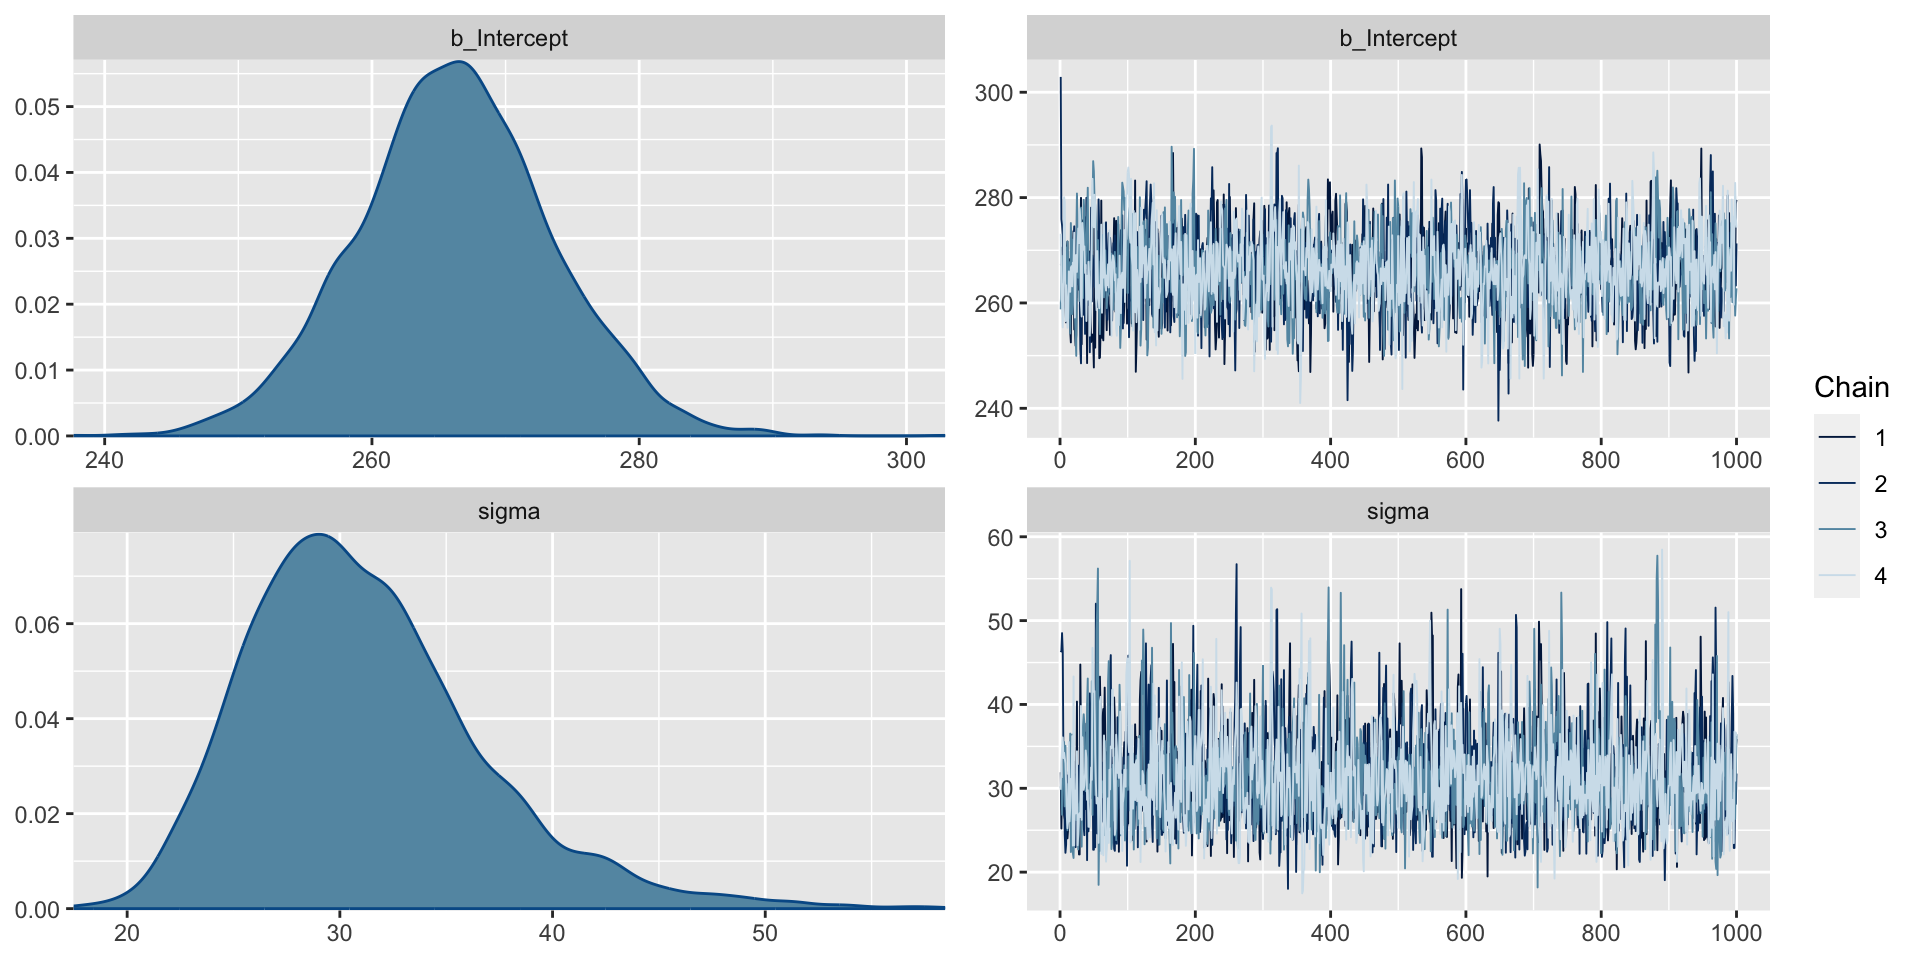
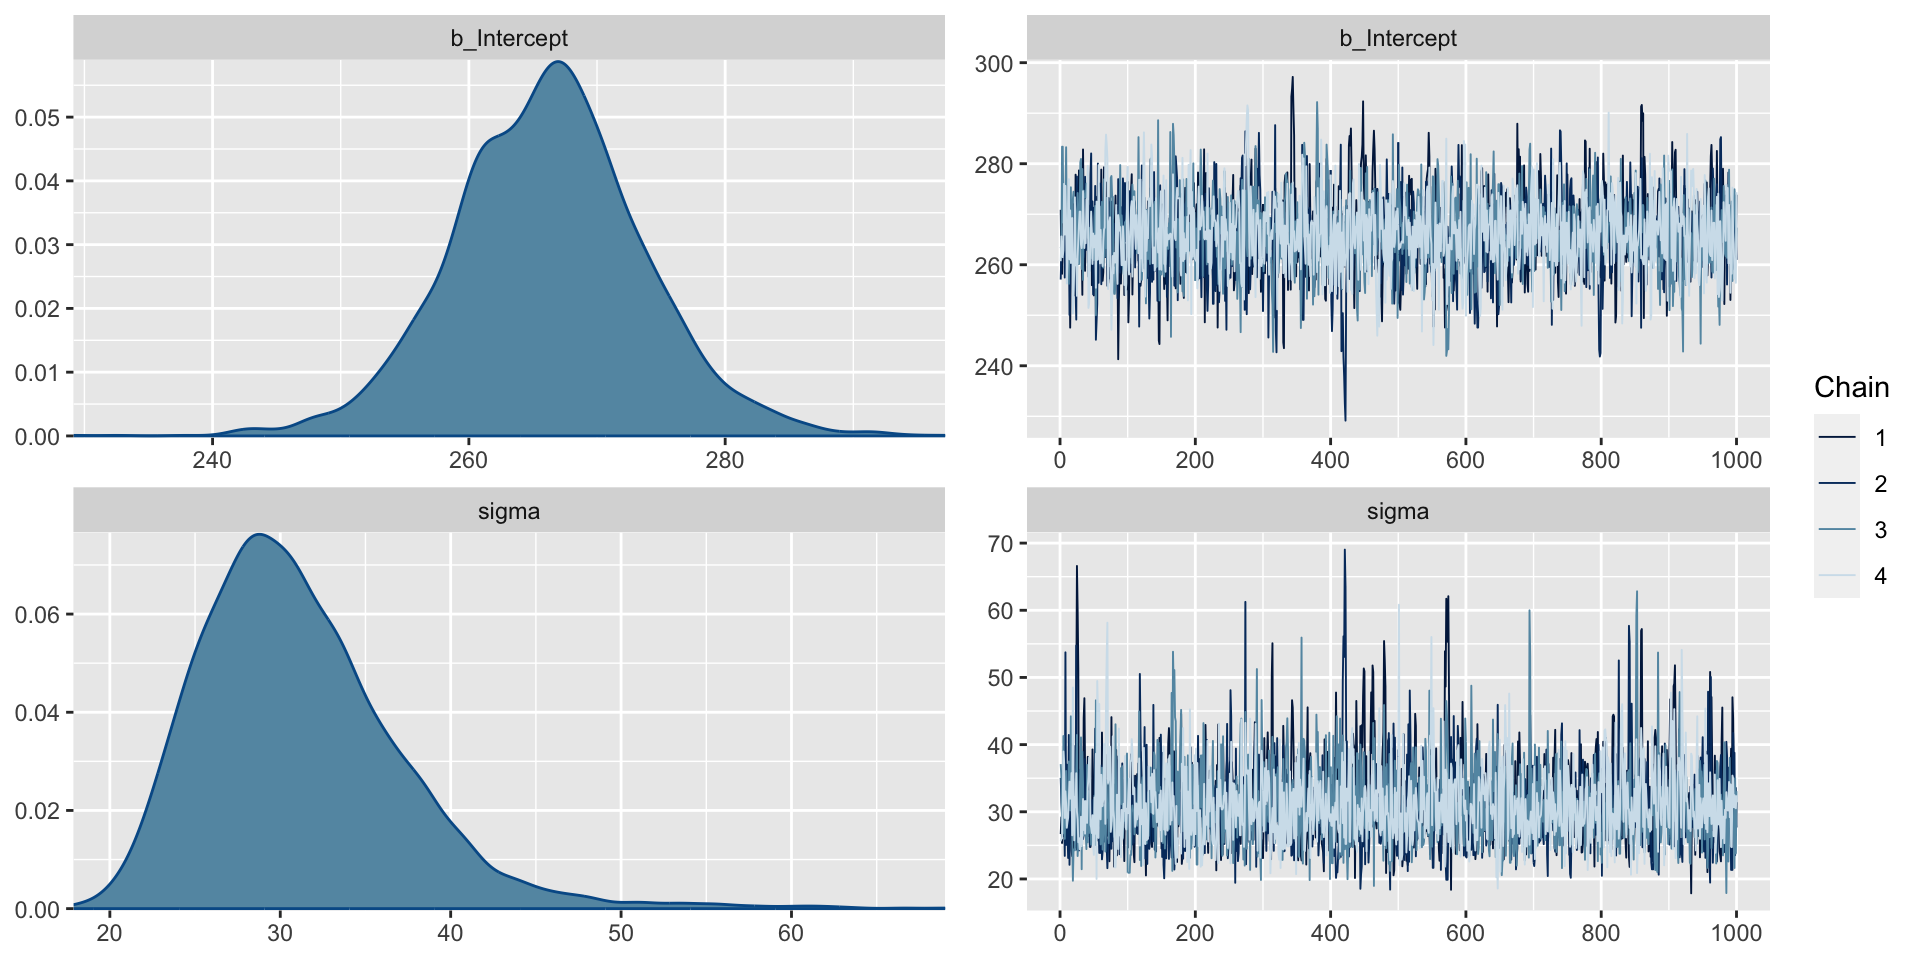
adding diagnostics to day 3 lecture 2

diff --git a/day-3-posterior/2-lec-posterior-analysis/2-lec-posterior-analysis.html b/day-3-posterior/2-lec-posterior-analysis/2-lec-posterior-analysis.html
@@ -448,6 +448,16 @@
 <img data-src="2-lec-posterior-analysis_files/figure-revealjs/unnamed-chunk-3-1.png" width="960" class="r-stretch"></section>
 <section id="code-to-fit-model" class="slide level2">
 <h2>Code to Fit Model</h2>
+<pre><code>fit &lt;- brm(data = baseline, family = gaussian(),
+           Reaction ~ 1, #only estimating a mean (Intercept) and variance
+           prior = c(
+            prior(normal(300,50), class = Intercept), 
+              # prior for mu has mean 300 and sd 50
+            prior(cauchy(0,40), class = sigma)
+              # prior for sigma is half of a mean 0, scale 40 Cauchy
+                )
+)
+</code></pre>
 </section>
 <section id="checking-the-output" class="slide level2">
 <h2>Checking the Output</h2>
@@ -457,7 +467,7 @@
 <div class="tab-content">
 <div id="tabset-2-1">
 <div class="cell">
-<div class="sourceCode cell-code" id="cb2"><pre class="sourceCode numberSource r number-lines code-with-copy"><code class="sourceCode r"><span id="cb2-1"><a href="#cb2-1"></a><span class="fu">plot</span>(fit) <span class="co"># show posteriors and trace plots</span></span></code><button title="Copy to Clipboard" class="code-copy-button"><i class="bi"></i></button></pre></div>
+<div class="sourceCode cell-code" id="cb3"><pre class="sourceCode numberSource r number-lines code-with-copy"><code class="sourceCode r"><span id="cb3-1"><a href="#cb3-1"></a><span class="fu">plot</span>(fit) <span class="co"># show posteriors and trace plots</span></span></code><button title="Copy to Clipboard" class="code-copy-button"><i class="bi"></i></button></pre></div>
 </div>
 </div>
 <div id="tabset-2-2">
@@ -470,10 +480,35 @@
 </div>
 </div>
 </section>
-<section id="checking-the-output-1" class="slide level2">
-<h2>Checking the Output</h2>
-<p>We also can check the <span class="math inline">\(\hat{R}\)</span> values.</p>
+<section id="interpreting-trace-plots" class="slide level2">
+<h2>Interpreting Trace Plots</h2>
+<p>A trace plot depicts the MCMC samples by MCMC iteration number. If your MCMC algorithm has converged, we expect to see trace plots that reflect white noise around the target value. Indeed, that appears to be the case here.</p>
+</section>
+<section id="bad-trace-plots" class="slide level2">
+<h2>Bad Trace Plots</h2>
+<div class="columns">
+<div class="column" style="width:60%;">
+<div class="quarto-figure quarto-figure-center">
+<figure>
+<p><img data-src="bad-trace-1.png"></p>
+<figcaption>Fig 6.12 in Bayes Rules</figcaption>
+</figure>
+</div>
+</div><div class="column" style="width:40%;">
+<p>Chain A has not yet converged to the right value (see black line in density plot), while Chain B is getting stuck and moving slowly around the sample space. In these cases, think carefully about your model and make sure it’s appropriate, and if so, try sampling a larger number of iterations.</p>
+</div>
+</div>
+</section>
+<section id="comparing-sampled-values-across-chains" class="slide level2">
+<h2>Comparing Sampled Values Across Chains</h2>
+<p>We also can check the <span class="math inline">\(\hat{R}\)</span> values. These compare the sampled values across chains (we hope all the chains are giving similar results) by taking the square root of the ratio of the variability in the parameter of interest across all chains combined to the typical variability within a given chain. When <span class="math inline">\(\hat{R} \approx 1\)</span>, we have stability across the chains. While there is no universal rule, often <span class="math inline">\(\hat{R}&gt;1.05\)</span> can be a cause for concern.</p>
+</section>
+<section id="checking-hatr" class="slide level2">
+<h2>Checking <span class="math inline">\(\hat{R}\)</span></h2>
 <div class="cell">
+<div class="sourceCode cell-code" id="cb4"><pre class="sourceCode numberSource markdown number-lines code-with-copy"><code class="sourceCode markdown"><span id="cb4-1"><a href="#cb4-1"></a><span class="in">```{r}</span></span>
+<span id="cb4-2"><a href="#cb4-2"></a>fit <span class="co"># written summary of the output</span></span>
+<span id="cb4-3"><a href="#cb4-3"></a><span class="in">```</span></span></code><button title="Copy to Clipboard" class="code-copy-button"><i class="bi"></i></button></pre></div>
 <div class="cell-output cell-output-stdout">
 <pre><code> Family: gaussian 
   Links: mu = identity; sigma = identity 
@@ -484,11 +519,11 @@ Formula: Reaction ~ 1
 
 Population-Level Effects: 
           Estimate Est.Error l-95% CI u-95% CI Rhat Bulk_ESS Tail_ESS
-Intercept   266.20      7.31   252.00   280.51 1.00     2477     2059
+Intercept   266.17      7.46   251.42   281.44 1.00     2433     2109
 
 Family Specific Parameters: 
       Estimate Est.Error l-95% CI u-95% CI Rhat Bulk_ESS Tail_ESS
-sigma    31.18      5.60    22.40    44.44 1.00     2938     2434
+sigma    31.11      5.98    22.14    44.87 1.00     2574     2063
 
 Draws were sampled using sampling(NUTS). For each parameter, Bulk_ESS
 and Tail_ESS are effective sample size measures, and Rhat is the potential
@@ -496,20 +531,39 @@ scale reduction factor on split chains (at convergence, Rhat = 1).</code></pre>
 </div>
 </div>
 </section>
+<section id="effective-sample-size" class="slide level2">
+<h2>Effective Sample Size</h2>
+<p>Markov chain simulations in general produce samples that are correlated, rather than independent. The degree of autocorrelation in samples is related to the speed of convergence of the chain. The <em>effective sample size (ESS)</em> is the number of <em>independent</em> samples you would need to get a similarly accurate posterior approximation. An effective sample size much smaller than the actual number of samples in a chain is an indication that our sampling is not very efficient. In the prior output, we see values of <code>Bulk_ESS</code> and <code>Tail-ESS</code>.</p>
+</section>
+<section id="effective-sample-size-1" class="slide level2">
+<h2>Effective Sample Size</h2>
+<ul>
+<li class="fragment"><p>The <em>bulk ESS</em> provides information about the sampling efficiency in the bulk of the distribution and is thus most relevant for providing information about efficiency of mean or median estimates.</p></li>
+<li class="fragment"><p><em>Tail ESS</em> computes the minimum of ESS of the 5% and 95% quantiles and is useful for determining sampling efficiency in the tails and of the variance.</p></li>
+<li class="fragment"><p>There are no hard and fast rules, but one recommendation is that both values should be at least 100 per Markov chain.</p></li>
+</ul>
+</section>
 <section id="evaluating-our-hypothesis" class="slide level2">
 <h2>Evaluating Our Hypothesis</h2>
-<p>Examining the posterior distribution for <span class="math inline">\(\mu\)</span>, we see that most of its mass is below the value 275. We can easily calculate the posterior probability that <span class="math inline">\(\mu&lt;275\)</span> by taking the fraction of posterior samples that are less than 275.</p>
-<div class="sourceCode" id="cb4"><pre class="sourceCode numberSource r number-lines code-with-copy"><code class="sourceCode r"><span id="cb4-1"><a href="#cb4-1"></a><span class="fu">mean</span>(<span class="fu">as_draws_df</span>(fit)<span class="sc">$</span>b_Intercept<span class="sc">&lt;</span><span class="dv">275</span>)</span></code><button title="Copy to Clipboard" class="code-copy-button"><i class="bi"></i></button></pre></div>
-<div class="cell">
-<div class="cell-output cell-output-stdout">
-<pre><code>[1] 0.88425</code></pre>
-</div>
-</div>
-<p>So the posterior probability that <span class="math inline">\(\mu&lt;275\)</span> is 0.88425.</p>
-</section>
+<p>Examining the posterior distribution for <span class="math inline">\(\mu\)</span>, we see that most of its mass is below the value 275.</p>
+
+<img data-src="2-lec-posterior-analysis_files/figure-revealjs/unnamed-chunk-7-1.png" width="960" class="r-stretch"></section>
 <section id="evaluating-our-hypothesis-1" class="slide level2">
 <h2>Evaluating Our Hypothesis</h2>
-<p>We can also use the 95% credible interval for <span class="math inline">\(\mu\)</span>, given by (252,280.51) and note that 275 is inside this credible interval.</p>
+<p>We can easily calculate the posterior probability that <span class="math inline">\(\mu&lt;275\)</span> by taking the fraction of posterior samples that are less than 275.</p>
+<div class="cell">
+<div class="sourceCode cell-code" id="cb6"><pre class="sourceCode numberSource markdown number-lines code-with-copy"><code class="sourceCode markdown"><span id="cb6-1"><a href="#cb6-1"></a><span class="in">```{r}</span></span>
+<span id="cb6-2"><a href="#cb6-2"></a><span class="fu">mean</span>(<span class="fu">as_draws_df</span>(fit)<span class="sc">$</span>b_Intercept<span class="sc">&lt;</span><span class="dv">275</span>)</span>
+<span id="cb6-3"><a href="#cb6-3"></a><span class="in">```</span></span></code><button title="Copy to Clipboard" class="code-copy-button"><i class="bi"></i></button></pre></div>
+<div class="cell-output cell-output-stdout">
+<pre><code>[1] 0.889</code></pre>
+</div>
+</div>
+<p>So the posterior probability that <span class="math inline">\(\mu&lt;275\)</span> is 0.889.</p>
+</section>
+<section id="evaluating-our-hypothesis-2" class="slide level2">
+<h2>Evaluating Our Hypothesis</h2>
+<p>We can also use the 95% credible interval for <span class="math inline">\(\mu\)</span>, given by (251.42,281.44) and note that 275 is inside this credible interval.</p>
 </section>
 <section id="you-try-it" class="slide level2">
 <h2>You Try It!</h2>
@@ -524,7 +578,7 @@ scale reduction factor on split chains (at convergence, Rhat = 1).</code></pre>
 <section id="changes-in-reaction-time-with-sleep-deprivation-1" class="slide level2">
 <h2>Changes in Reaction Time with Sleep Deprivation</h2>
 
-<img data-src="2-lec-posterior-analysis_files/figure-revealjs/unnamed-chunk-9-1.png" width="960" class="r-stretch"><p>We see that reaction times tend to be longer when participants have been sleep deprived.</p>
+<img data-src="2-lec-posterior-analysis_files/figure-revealjs/unnamed-chunk-10-1.png" width="960" class="r-stretch"><p>We see that reaction times tend to be longer when participants have been sleep deprived.</p>
 </section>
 <section id="you-try-it-1" class="slide level2">
 <h2>You Try It!</h2>

diff --git a/day-3-posterior/4-act-posterior-analysis/4-act-posterior-analysis.html b/day-3-posterior/4-act-posterior-analysis/4-act-posterior-analysis.html
@@ -80,7 +80,7 @@ ul.task-list li input[type="checkbox"] {
 <li><p>For today, avoid regression models (coming soon!) and stick with analysis using simple one or two-parameter models</p></li>
 <li><p>Develop an activity that could be used in a course you teach</p></li>
 <li><p>Be creative!</p></li>
-<li><p>Can also follow example from this morning if desired</p></li>
+<li><p>Can also adapt example from this morning if desired</p></li>
 <li><p>Identify data and develop code for modeling</p></li>
 </ul>
 </section>
